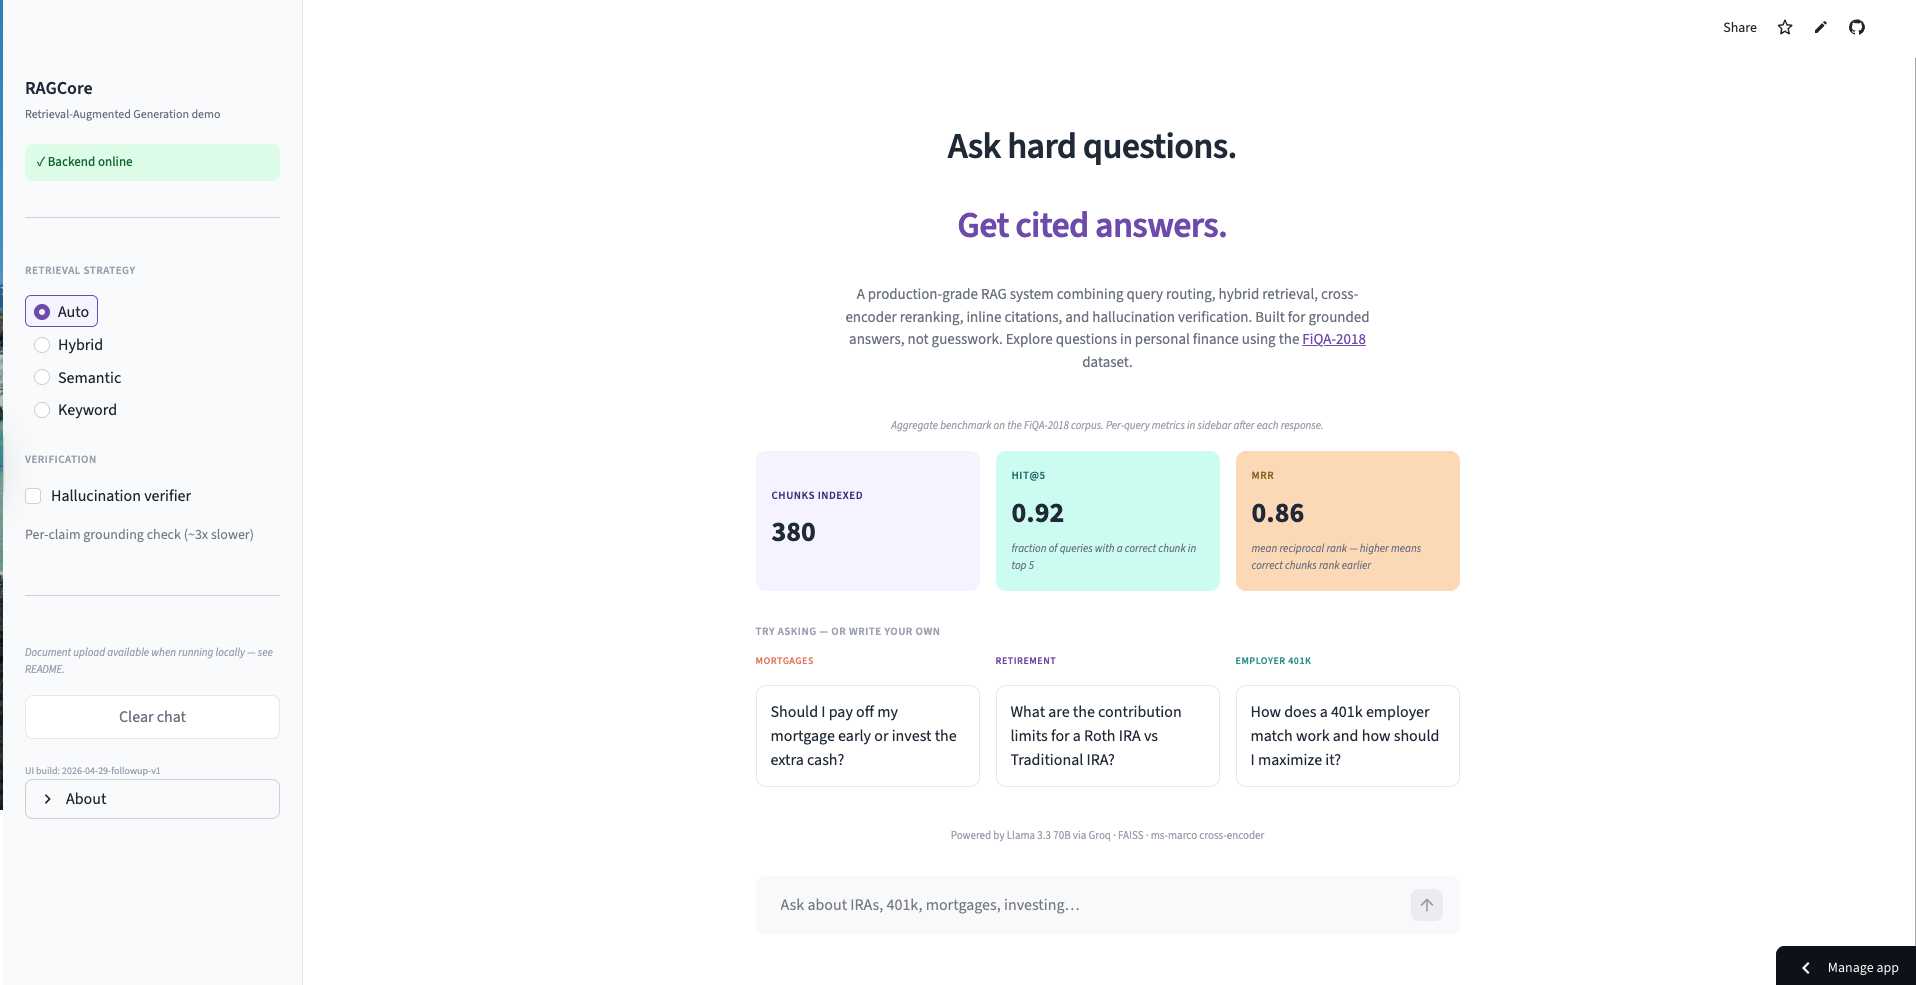
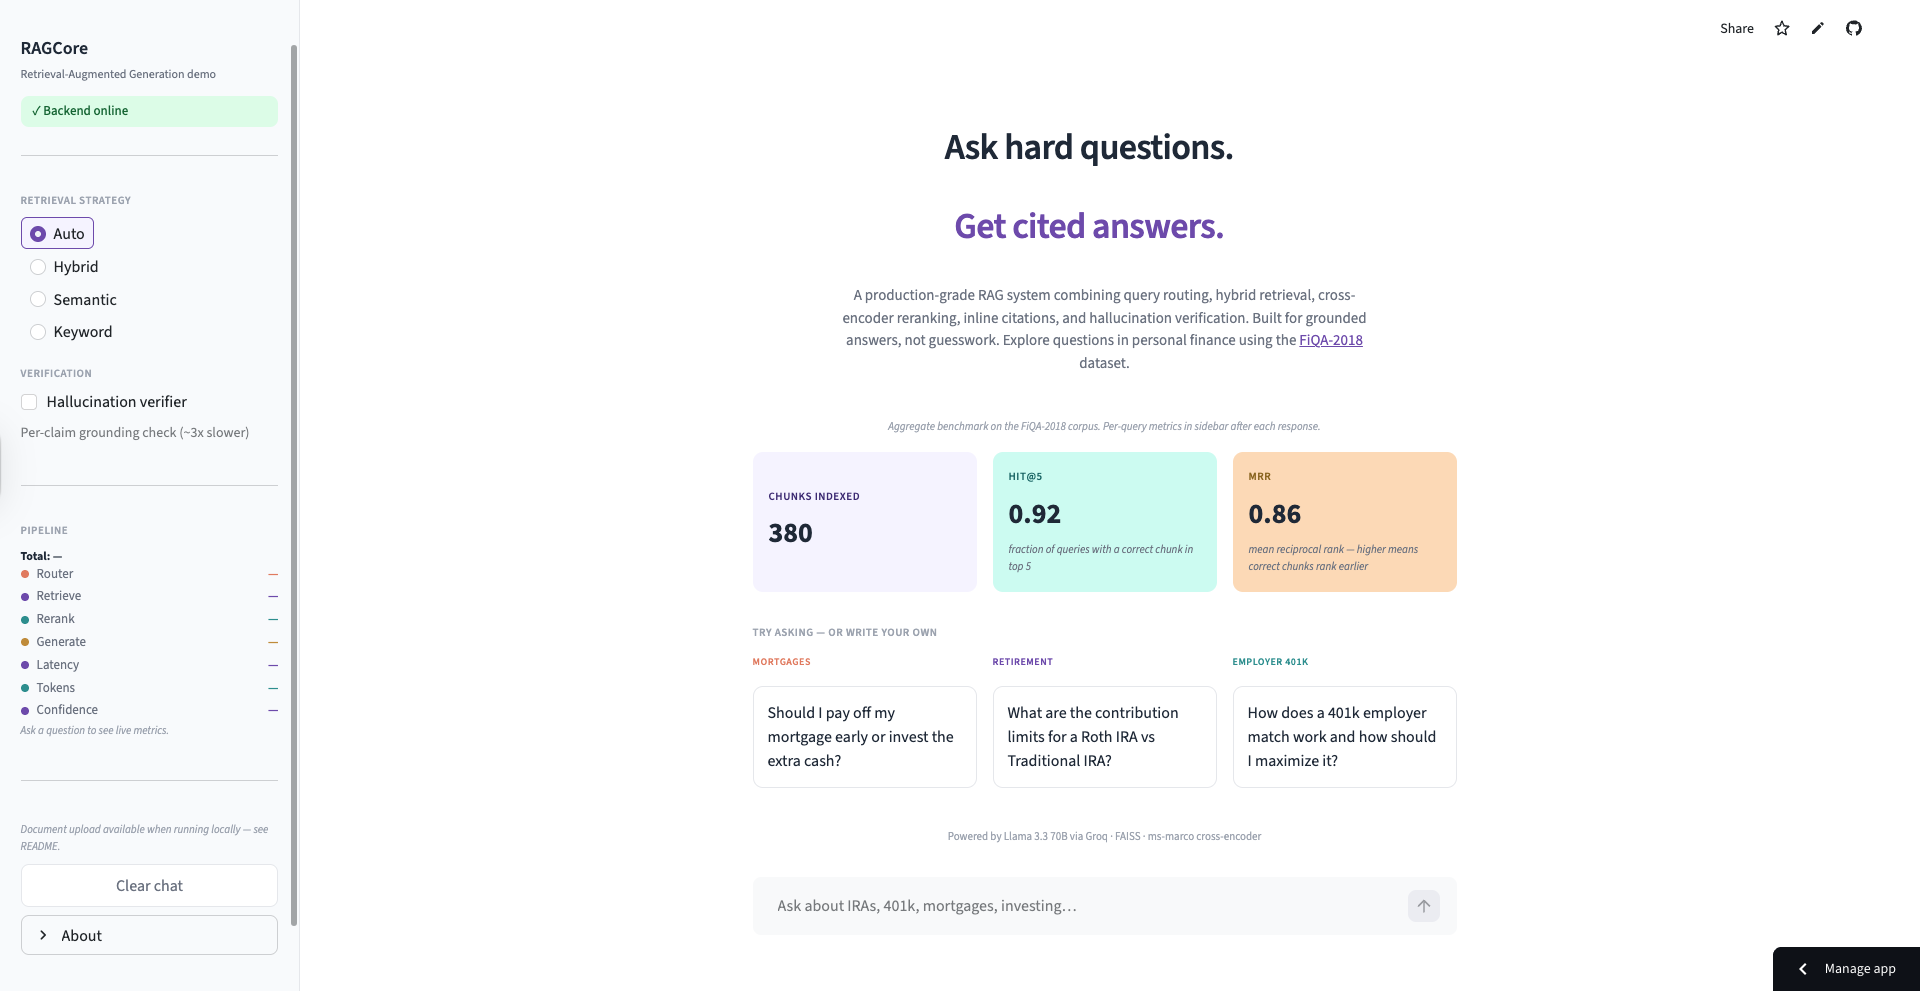
Docs: README Security section and AUDIT updates closing security pass
README:
- Add ## Security section (between Configuration and Project Structure)
  covering CORS, API key auth, rate limiter, and compose credential
  hardening — one paragraph per mechanism with env var callouts
- Add Security to TOC
- Update Grafana credentials note in Monitoring section to reflect the
  CHANGE_ME_IN_PROD default introduced in commit 948a895
- Update unit test count: 144 → 166
- Refresh docs/assets/demo.png to show new empty-state metrics rendering

AUDIT.md:
- Add RateLimitMiddleware and APIKeyAuthMiddleware rows to the
  Orchestrator & API module status table with commit refs and test counts
- Update unit test count from 144 to 166 in the Tests table, the Testing
  Section claims audit, and the Status Section note
- Add five new numbered security limitations (17–21): unbounded trace
  store, unauthenticated trace endpoints, raw exception messages in HTTP
  responses, Celery failure object returned verbatim (async path, distinct
  from sync path in #19), unvalidated X-Request-Id header
- Add security-pass paragraph to Honest Verdict

.env.example:
- Add RAGCORE_RATE_LIMIT_MAX_REQUESTS, RAGCORE_RATE_LIMIT_WINDOW_SECONDS,
  and RAGCORE_TRUST_PROXY_HEADERS entries with comments (missed in commit 3)

diff --git a/AUDIT.md b/AUDIT.md
@@ -2,6 +2,7 @@
 
 **Date:** 2026-04-30
 **Updated:** 2026-05-06 to reflect the 9-commit batch (be22906..c2e70a1).
+**Updated:** 2026-05-12 to reflect the 5-commit security pass (6416224..this commit): CORS allowlist, API key auth, rate-limit hardening, docker-compose secrets, and docs.
 **Auditor:** Hema Kollipara
 **Scope:** Post-citation-spans state — attributed_spans backend parser, attributed_spans
 frontend rendering, follow-up question generation, hallucination verifier toggle, confidence
@@ -92,6 +93,8 @@ threshold recalibration, visual rebuild.
 | `/metrics` endpoint | api/main.py, monitoring/metrics.py | WORKING | Real Prometheus instrumentation as of commit `441133d`. Five custom metrics in `monitoring/metrics.py`: `ragcore_stage_duration_seconds` (histogram, stage/strategy labels), `ragcore_generation_tokens_total` (counter, direction/provider), `ragcore_self_rag_claims_total` (counter, outcome), `ragcore_process_memory_bytes` (gauge via psutil), `ragcore_vector_store_disk_bytes` (gauge, backend label). RED metrics on every endpoint via `prometheus-fastapi-instrumentator`. 7 unit tests + 4 integration tests. Known gap: custom `ragcore_*` metrics fire only on queries that complete the full pipeline; early-return paths (e.g., empty-index guard) emit only RED metrics. |
 | Celery async ingestion | api/main.py | PARTIAL | Code correct; requires running Redis + Celery worker. Not tested in CI. |
 | RequestIdMiddleware | api/middleware/request_id.py | WORKING | Added in commit `d25ae0b`. Honors inbound `X-Request-Id` header; generates UUID4 otherwise. Binds `request_id` into structlog context so every log line emitted during request handling carries the field. Echoes `X-Request-Id` in the response header. Registered last in middleware stack (runs first/outermost). 3 unit tests. |
+| RateLimitMiddleware | api/middleware/rate_limit.py | WORKING | Sliding-window rate limiter. Configurable via `RAGCORE_RATE_LIMIT_MAX_REQUESTS` (default 60) and `RAGCORE_RATE_LIMIT_WINDOW_SECONDS` (default 60). Hardened in commit `4d176a1`: Retry-After header on 429 (RFC 7231 §7.1.3), optional proxy-header trust (`RAGCORE_TRUST_PROXY_HEADERS`, default false), `/health/live` and `/health/ready` exemptions added alongside `/health` and `/metrics`, `ragcore_rate_limit_rejected_total` Prometheus counter labeled by path. State is process-local; under N workers an attacker can sustain N × max_requests per window — documented in module docstring, Redis fix deferred. 10 unit tests. |
+| APIKeyAuthMiddleware | api/middleware/auth.py | WORKING | Optional X-API-Key authentication on non-exempt endpoints. Activated when `RAGCORE_AUTH_ENABLED=true` (default false); disabled so the Streamlit demo remains accessible without configuration. Exempt paths: `/health`, `/health/live`, `/health/ready`, `/metrics`. Uses `secrets.compare_digest` for constant-time comparison. Returns 401 with `WWW-Authenticate: ApiKey` on failure. Commit `612da29`. 6 unit tests. |
 
 ### Agent
 
@@ -135,7 +138,7 @@ threshold recalibration, visual rebuild.
 
 | Module | File | State | Notes |
 |--------|------|-------|-------|
-| Unit tests (144) | tests/unit/ | WORKING | `grep -r "def test_" tests/unit/` returns 144. +31 since `be22906`: 3 fail-closed Self-RAG (`679315e`), 3 fence-stripping (`6af0589`), 15 health checks (`2f8c9c2`), 3 logging (`d25ae0b`), 7 metrics (`441133d`). |
+| Unit tests (166) | tests/unit/ | WORKING | `pytest tests/unit/ --collect-only -q` returns 166. +31 since `be22906` (3 fail-closed Self-RAG, 3 fence-stripping, 15 health checks, 3 logging, 7 metrics); +22 from 5-commit security pass (`6416224`..`this`): 4 CORS, 6 auth (`612da29`), 10 rate-limit (`4d176a1`), 0 docker-secrets, 2 metrics label (`4d176a1`). |
 | Integration tests (45) | tests/integration/ | PARTIAL | 45 total, 44 passing. +4 from `test_metrics_endpoint.py` (commit `441133d`). One test (`test_agent_graph_with_tracing`) still fails on mock-target resolution in the test itself — unchanged since April. |
 
 ---
@@ -242,7 +245,7 @@ fixed. It has never been exercised end-to-end against a live Langfuse instance.
 
 ### Status Section
 
-The README's Status section was accurate as of 2026-04-30 but had three claims rendered false by the 9-commit batch: (1) "Prometheus/Grafana appear in `docker-compose.yml` but the application emits no metrics" — now false; 5 custom metrics + RED metrics fire. (2) "fix the two scaffolded tracer integration tests" in What's Next — actually fixed in commit `f424495` (pre-`be22906`); the tests pass. (3) Test counts 113/40-of-41 — now 144/44-of-45.
+The README's Status section was accurate as of 2026-04-30 but had three claims rendered false by the 9-commit batch: (1) "Prometheus/Grafana appear in `docker-compose.yml` but the application emits no metrics" — now false; 5 custom metrics + RED metrics fire. (2) "fix the two scaffolded tracer integration tests" in What's Next — actually fixed in commit `f424495` (pre-`be22906`); the tests pass. (3) Test counts 113/40-of-41 — now 166/44-of-45 (144 at the 2026-05-06 update, +22 unit tests from the security pass).
 
 The accompanying README pass updates all three: adds four new "Working end-to-end" bullets (Prometheus, deep health checks, structured logging, Self-RAG verifier robustness), trims the Monitoring deferred bullet to remove the false claim, removes the stale tracer-integration-tests bullet from What's Next, and updates the test counts in the Testing section.
 
@@ -250,8 +253,8 @@ Self-RAG hardcoded to gpt-4o-mini was already noted; that limitation is unchange
 
 ### Testing Section
 
-**"144 unit tests passing, 44 of 45 integration tests passing"**
-→ **REAL.** `grep -r "def test_"` returns 144 unit tests and 45 integration tests. The single failing integration test (`test_agent_graph_with_tracing`) is a mock-target resolution bug in the test itself, unchanged since April. The post-`be22906` test additions (+31 unit, +4 integration) are accounted for in the Tests table above.
+**"166 unit tests passing, 44 of 45 integration tests passing"** *(was 144 at prior audit)*
+→ **REAL.** `pytest tests/unit/ --collect-only -q` returns 166 unit tests; `pytest tests/integration/ --collect-only -q` returns 45. The single failing integration test (`test_agent_graph_with_tracing`) is a mock-target resolution bug in the test itself, unchanged since April. The post-`be22906` additions (+31 unit, +4 integration) plus the security-pass additions (+22 unit, 0 integration) are accounted for in the Tests table above.
 
 > Note: the `tests/unit/` and `tests/integration/` directory tree comments in the README still show "75 tests" and "25 tests" — both were already stale in the April audit and remain so. Cosmetic; not on the critical path.
 
@@ -318,6 +321,18 @@ agent API models. Accurate enough not to mislead; worth noting.
     the hallucination verifier and reloads will silently lose the setting. The verifier
     is the only stateful sidebar control; no UI text communicates the reset behavior.
 
+### Security limitations (documented; fix-cost exceeds portfolio-demo scope)
+
+17. **Unbounded in-memory trace store.** `/agent/query` with `trace_enabled: true` appends entries to `_trace_store`, a process-local dict in `api/main.py` (around line 589), with no TTL, eviction policy, or size cap. On a long-running deploy each traced query permanently consumes memory; the store grows without bound until OOM. Impact: memory exhaustion. Proposed fix: TTL-based eviction keyed on request timestamp, or an LRU cap with a configurable max-entry count.
+
+18. **Unauthenticated trace endpoints.** `/agent/trace/{trace_id}` and `/trace/{trace_id}` return full request and response payloads for any valid-looking UUID without requiring authentication (`api/main.py`). A caller who learns or guesses a trace UUID can read another user's query and answer. Impact: information disclosure. Proposed fix: bind traces to the requesting client and require a matching identity header, or require `X-API-Key` on these endpoints specifically when `RAGCORE_AUTH_ENABLED=true`.
+
+19. **Raw exception messages in HTTP response bodies.** Multiple endpoints pass `str(e)` directly into `HTTPException(detail=...)`: `/ingest/file` (~line 384), `/ingest/text` (~line 424), `/ingest/status/{job_id}` (~line 463), `/documents/{doc_id}` (~line 487), `/query` (~line 524). Python exception messages routinely contain file paths, class names, variable values, and internal state. Impact: information disclosure on errors. Proposed fix: return a generic `"Internal server error"` to the client and log the full exception server-side with `exc_info=True`.
+
+20. **Celery failure object returned verbatim by `/ingest/status/{job_id}`.** Distinct from item 19: when a Celery task fails asynchronously, the endpoint serializes `result.result` (the exception object) and returns it as the job status body. Item 19 covers synchronous error paths; this covers the async result path. Impact: same as #19 — internal state leakage on the async ingest path. Proposed fix: check `result.state == "FAILURE"` and replace `result.result` with a sanitized error string before returning.
+
+21. **Unvalidated `X-Request-Id` header.** `api/middleware/request_id.py` accepts any `X-Request-Id` value from the client without length, character-set, or format validation, then binds it into structlog context for the request lifetime. A caller can inject arbitrarily long strings or structured content into every log line for that request. Impact: log injection and log-storage abuse. Proposed fix: validate length (e.g. ≤128 chars) and character set (alphanumerics + hyphens) to block injection while preserving upstream correlation IDs from load balancers and APM agents; generate a fresh UUID4 if validation fails.
+
 ---
 
 ## Next Steps if Continued
@@ -360,3 +375,5 @@ Two latent Self-RAG verifier bugs were found and fixed during 2026-05-06 benchma
 The generation and agent scaffolding perimeter is unchanged since April. AgenticRAG still runs basic generation when selected (planned, not yet wired). FLARE was wired in commit `6affffb` and now runs the dollar-token novelty heuristic with iterative re-retrieval. Three advanced chunkers (Propositional, TableAware, DocumentStructure) are registered in `get_chunker()` but untested end-to-end. Three advanced embedders (Matryoshka, ColBERT, FineTuner) remain unregistered in `get_embedder()` and unreachable from any pipeline path. The lone failing integration test (`test_agent_graph_with_tracing`) is unchanged.
 
 The honest summary: the observability surface has gone from zero to functional, the benchmark analysis has a substantive methodological finding about LLM-as-judge instability at n=50, and the headline framing in the README now reports a multi-run summary that respects the instrument's actual precision. The generation and agent perimeter is unchanged.
+
+The 2026-05-12 security pass (commits 6416224..948a895) closed four previously-undocumented infrastructure gaps: CORS was narrowed from `*` to an explicit allowlist; optional API key auth was added behind a feature flag; the rate limiter was hardened with configurable limits, a `Retry-After` header, and a Prometheus counter; and docker-compose Redis and Grafana credentials were replaced with obvious placeholders instead of known defaults. Five residual security limitations are now formally documented as items 17–21. Unit test count increased from 144 to 166 with the new middleware test suites.

diff --git a/README.md b/README.md
@@ -28,6 +28,7 @@ finding.
 - [Monitoring](#monitoring)
 - [API Reference](#api-reference)
 - [Configuration](#configuration)
+- [Security](#security)
 - [Project Structure](#project-structure)
 - [Testing](#testing)
 - [Status](#status)
@@ -242,7 +243,7 @@ cd ui_chainlit && chainlit run app.py
 
 After `docker compose up`, Prometheus scrapes the API's `/metrics` endpoint every 15 seconds and is accessible at `http://localhost:9090`. The `ragcore_api` scrape target should show as **UP** within one scrape interval; verify at `http://localhost:9090/targets`.
 
-Grafana is available at `http://localhost:3000` (default credentials: `admin` / `admin`). The **RAGCore Overview** dashboard is preloaded under Dashboards → RAGCore and displays request rate, p95 latency, stage durations, token usage, Self-RAG claim outcomes, process memory, and vector store disk usage.
+Grafana is available at `http://localhost:3000`; log in with the `GF_ADMIN_PASSWORD` you set in `.env` (defaults to `CHANGE_ME_IN_PROD` if unset — see [Security](#security)). The **RAGCore Overview** dashboard is preloaded under Dashboards → RAGCore and displays request rate, p95 latency, stage durations, token usage, Self-RAG claim outcomes, process memory, and vector store disk usage.
 
 ![RAGCore Grafana Overview](docs/assets/grafana_overview.png)
 
@@ -361,6 +362,22 @@ API key auth is **off by default** so the Streamlit demo at [ragcore.streamlit.a
 
 ---
 
+## Security
+
+RAGCore is a portfolio demo; its security posture is off by default to keep the live demo reachable without configuration. Four mechanisms are opt-in for production deploys: a CORS allowlist, optional API key authentication, a per-IP rate limiter, and docker-compose credential hardening.
+
+**CORS allowlist.** `CORSMiddleware` rejects preflight requests from origins not in the `CORS_ORIGINS` list (default `http://localhost:8501` for the Streamlit dev port). In production set `CORS_ORIGINS` to your frontend's URL. See the [Configuration](#configuration) table.
+
+**API key authentication.** Disabled by default (`RAGCORE_AUTH_ENABLED=false`). When enabled, every non-exempt endpoint requires an `X-API-Key` header matched using constant-time comparison. Exempt paths — `/health`, `/health/live`, `/health/ready`, `/metrics` — remain reachable for monitoring tools without a key. Set `RAGCORE_API_KEY` to a long random value before enabling. See the [Configuration](#configuration) table.
+
+**Rate limiter.** Enforces a per-IP sliding window (default 60 requests / 60-second window), configurable via `RAGCORE_RATE_LIMIT_MAX_REQUESTS` and `RAGCORE_RATE_LIMIT_WINDOW_SECONDS`. Rejected requests receive a `429` with a `Retry-After` header. By default the limiter reads `request.client.host`; set `RAGCORE_TRUST_PROXY_HEADERS=true` only when running behind a trusted reverse proxy. State is process-local — see AUDIT.md for the multi-worker caveat.
+
+**Docker-compose credentials.** The compose stack defaults Redis and Grafana credentials to `CHANGE_ME_IN_PROD` if `REDIS_PASSWORD` and `GF_ADMIN_PASSWORD` are unset — a visible placeholder, not a silent default. Set both in `.env` before running `docker compose up`.
+
+Five security limitations are documented and tracked in [AUDIT.md](AUDIT.md): the in-memory trace store has no eviction and will exhaust memory on long-running deploys; the trace retrieval endpoints (`/agent/trace/{id}`, `/trace/{id}`) require no authentication; several endpoints surface raw exception messages to callers; the Celery failure path returns the serialized exception object verbatim; and `RequestIdMiddleware` accepts any client-supplied `X-Request-Id` value without format validation.
+
+---
+
 ## Project Structure
 
 <details>
@@ -440,7 +457,7 @@ pytest tests/integration/ -v
 pytest tests/unit/ --cov=. --cov-report=html
 ```
 
-Current: 144 unit tests passing, 44 of 45 integration tests passing. One
+Current: 166 unit tests passing, 44 of 45 integration tests passing. One
 integration test (`test_agent_graph_with_tracing`) fails due to a pre-existing
 mock-target resolution bug in the test itself, unrelated to current work.
 